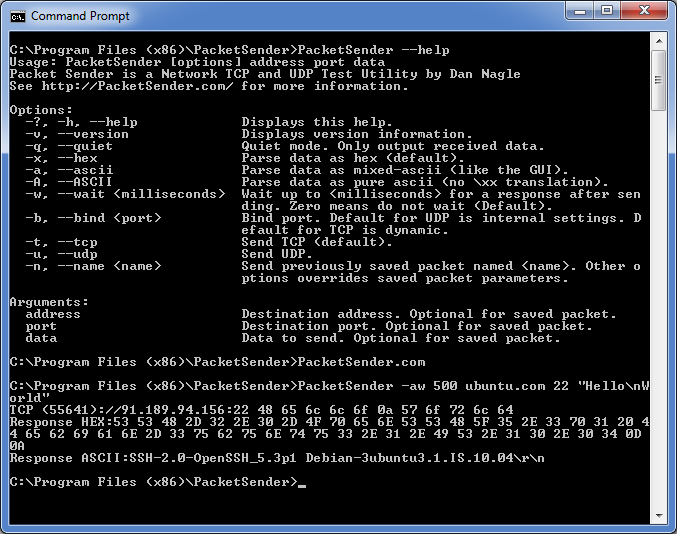
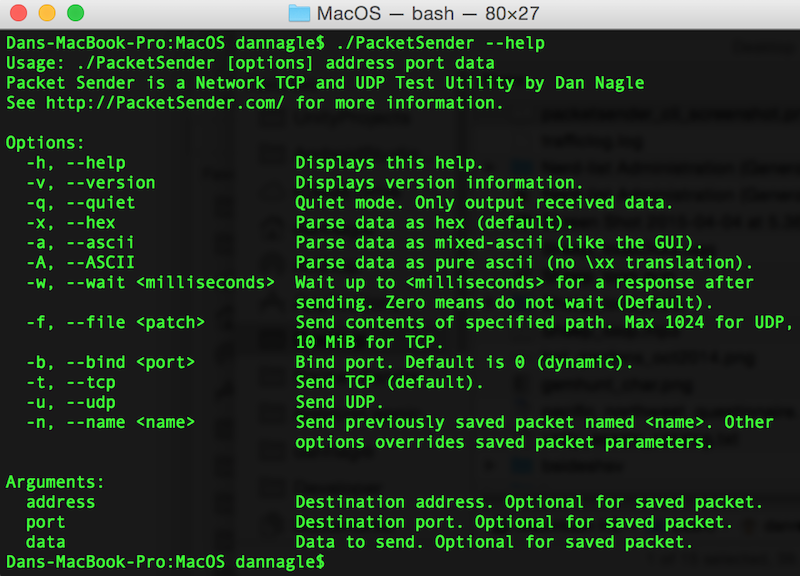
update documentation

diff --git a/README.md b/README.md
@@ -4,17 +4,18 @@
 
 Packet Sender is an open source utility to allow sending and receiving TCP and UDP packets. The mainline branch officially supports Windows, Mac, and Ubuntu Desktop Linux. Other places may recompile and redistribute Packet Sender. Packet Sender is free and licensed GPL v2 or later. It can be used for both commercial and personal use.
 
-## Mobile Versions
-The abandoned mobile versions are written in Java and Swift and are MIT Licensed.  
-* [Source for Packet Sender for Android](https://github.com/dannagle/PacketSender-Android).
-* [Source for Packet Sender for for iOS](https://github.com/dannagle/PacketSender-iOS).
-
-The desktop version is by far more capable and more popular and is now the sole focus of the project. 
 
 ## Download
 Official releases of Packet Sender can be downloaded at  [PacketSender.com](http://packetsender.com/). Some places redistribute Packet Sender.
 
 ![Packet Sender logo](screenshots/WindowsLogo_Transparent_670x600-150x150.png)![Packet Sender logo](screenshots/mac_logo.png)![Packet Sender logo](screenshots/ubuntu-logo-transparent.png)
+
+## Mobile Versions
+The abandoned mobile versions are written in Java and Swift and are MIT Licensed.  
+* [Source for Packet Sender for Android](https://github.com/dannagle/PacketSender-Android).
+* [Source for Packet Sender for for iOS](https://github.com/dannagle/PacketSender-iOS).
+
+The desktop version is by far more capable and more popular and is now the sole focus of the project.
 
 
 ## Packet Sender Documentation
@@ -24,14 +25,16 @@ Some knowledge of a basic network protocols is a prerequisite to using Packet Se
 
 ### Support
 
-
-
 * Stack Overflow: [stackoverflow.com/search?q=packet+sender](http://stackoverflow.com/search?q=packet+sender)
 * Twitter: [@NagleCode](http://twitter.com/naglecode)
 * You may also track this project on GitHub.
 * Secure Anonymous Email: [DanNagle.com/contact](http://DanNagle.com/contact)
 
-### Documentation (Desktop)
+### Portable Mode
+
+Packet Sender has a "portable" mode. At launch, it will look for `packets.ini` and `ps_settings.ini` in its run-time directory. Windows users, this directory is the same place as the .exe. For Mac users, this run-time directory is at "PacketSender.app/Contents/MacOS". If INI files are found, it will use them instead of %APPDATA%" or "Library/Application Support".
+
+### Documentation (GUI)
 
 Packet Sender is identical for all the desktop versions. The only difference is its theme to match the operating system.
 
@@ -87,6 +90,7 @@ The command line system in Packet Sender follows the same pattern as other Linux
     -a, --ascii 	Parse data as mixed-ascii (like the GUI).
     -A, --ASCII 	Parse data as pure ascii (no \xx translation).
     -w, --wait <milliseconds> 	Wait up to <milliseconds> for a response after sending. Zero means do not wait (Default).
+    -f, --file <path> 	Send contents of specified path. Max 1024 for UDP, 10 MiB for TCP.
     -b, --bind <port> 	Bind port. Default is dynamic.
     -t, --tcp 	Send TCP (default).
     -u, --udp 	Send UDP.
@@ -100,8 +104,8 @@ The command line system in Packet Sender follows the same pattern as other Linux
 ### Example CLI
 
 
-    packetsender -taw 500 ubuntu.com 22 "Hello\nWorld"
-    TCP (56620)://91.189.94.156:22 48 65 6c 6c 6f 0a 57 6f 72 6c 64
+    packetsender -taw 500 packetsender.com 22 "Hello\nWorld"
+    TCP (56620)://192.185.38.130 48 65 6c 6c 6f 0a 57 6f 72 6c 64
     Response HEX:53 53 48 2D 32 2E 30 2D 4F 70 65 6E 53 53 48 5F 35 2E 33 70 31 20 44 65 62 69 61 6E 2D 33 75 62 75 6E 74 75 33 2E 31 2E 49 53 2E 31 30 2E 30 34 0D 0A
     Response ASCII:SSH-2.0-OpenSSH_5.3p1 Debian-3ubuntu3.1.IS.10.04\r\n
 
